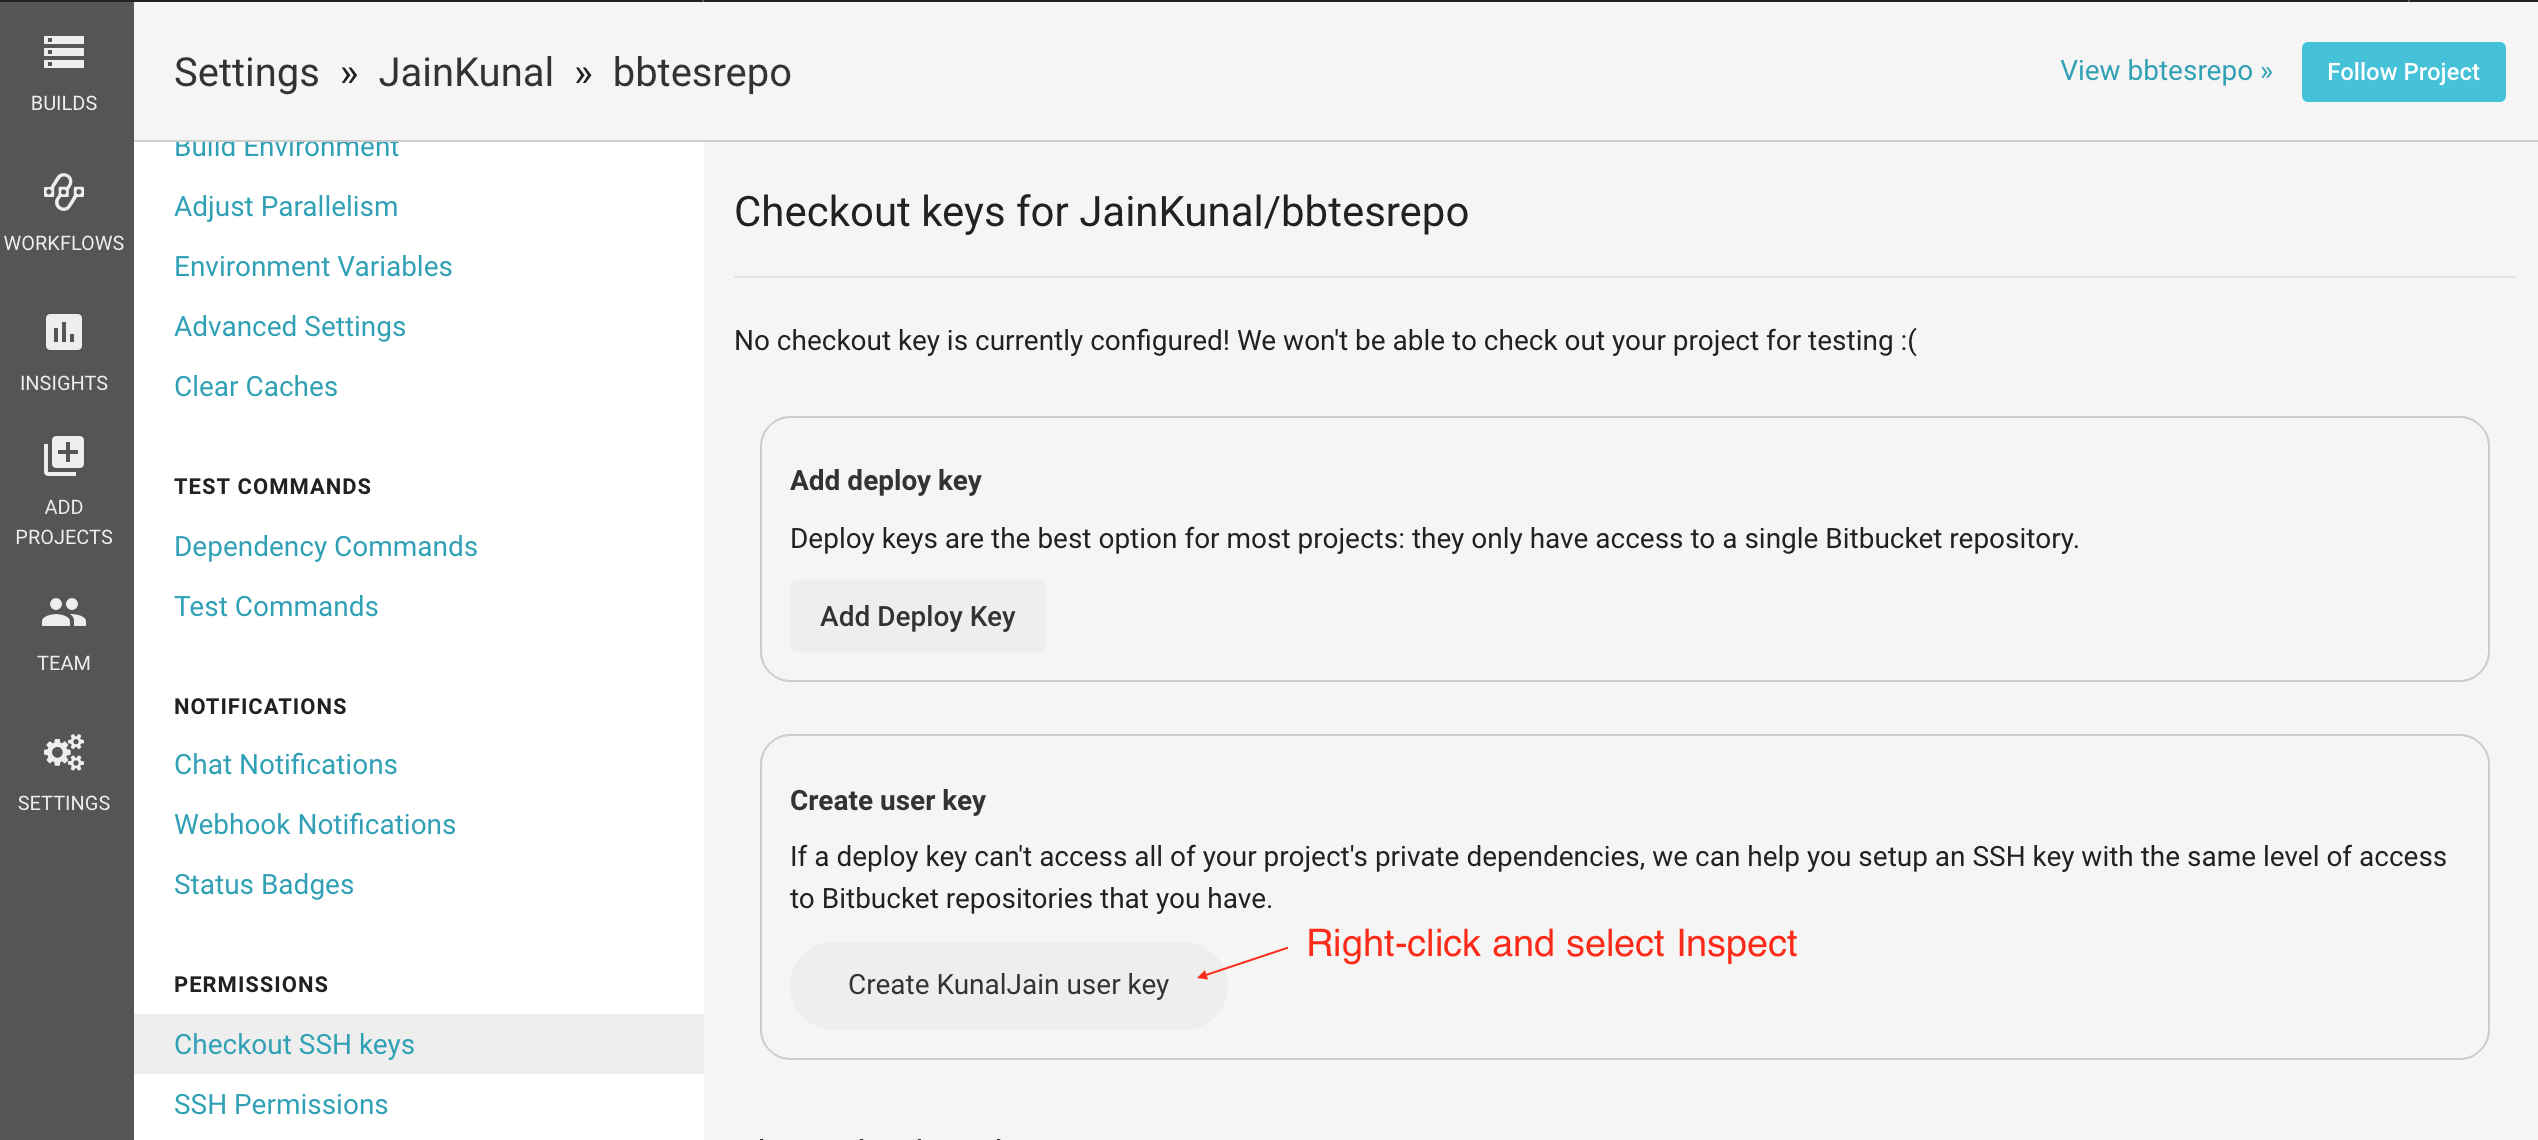
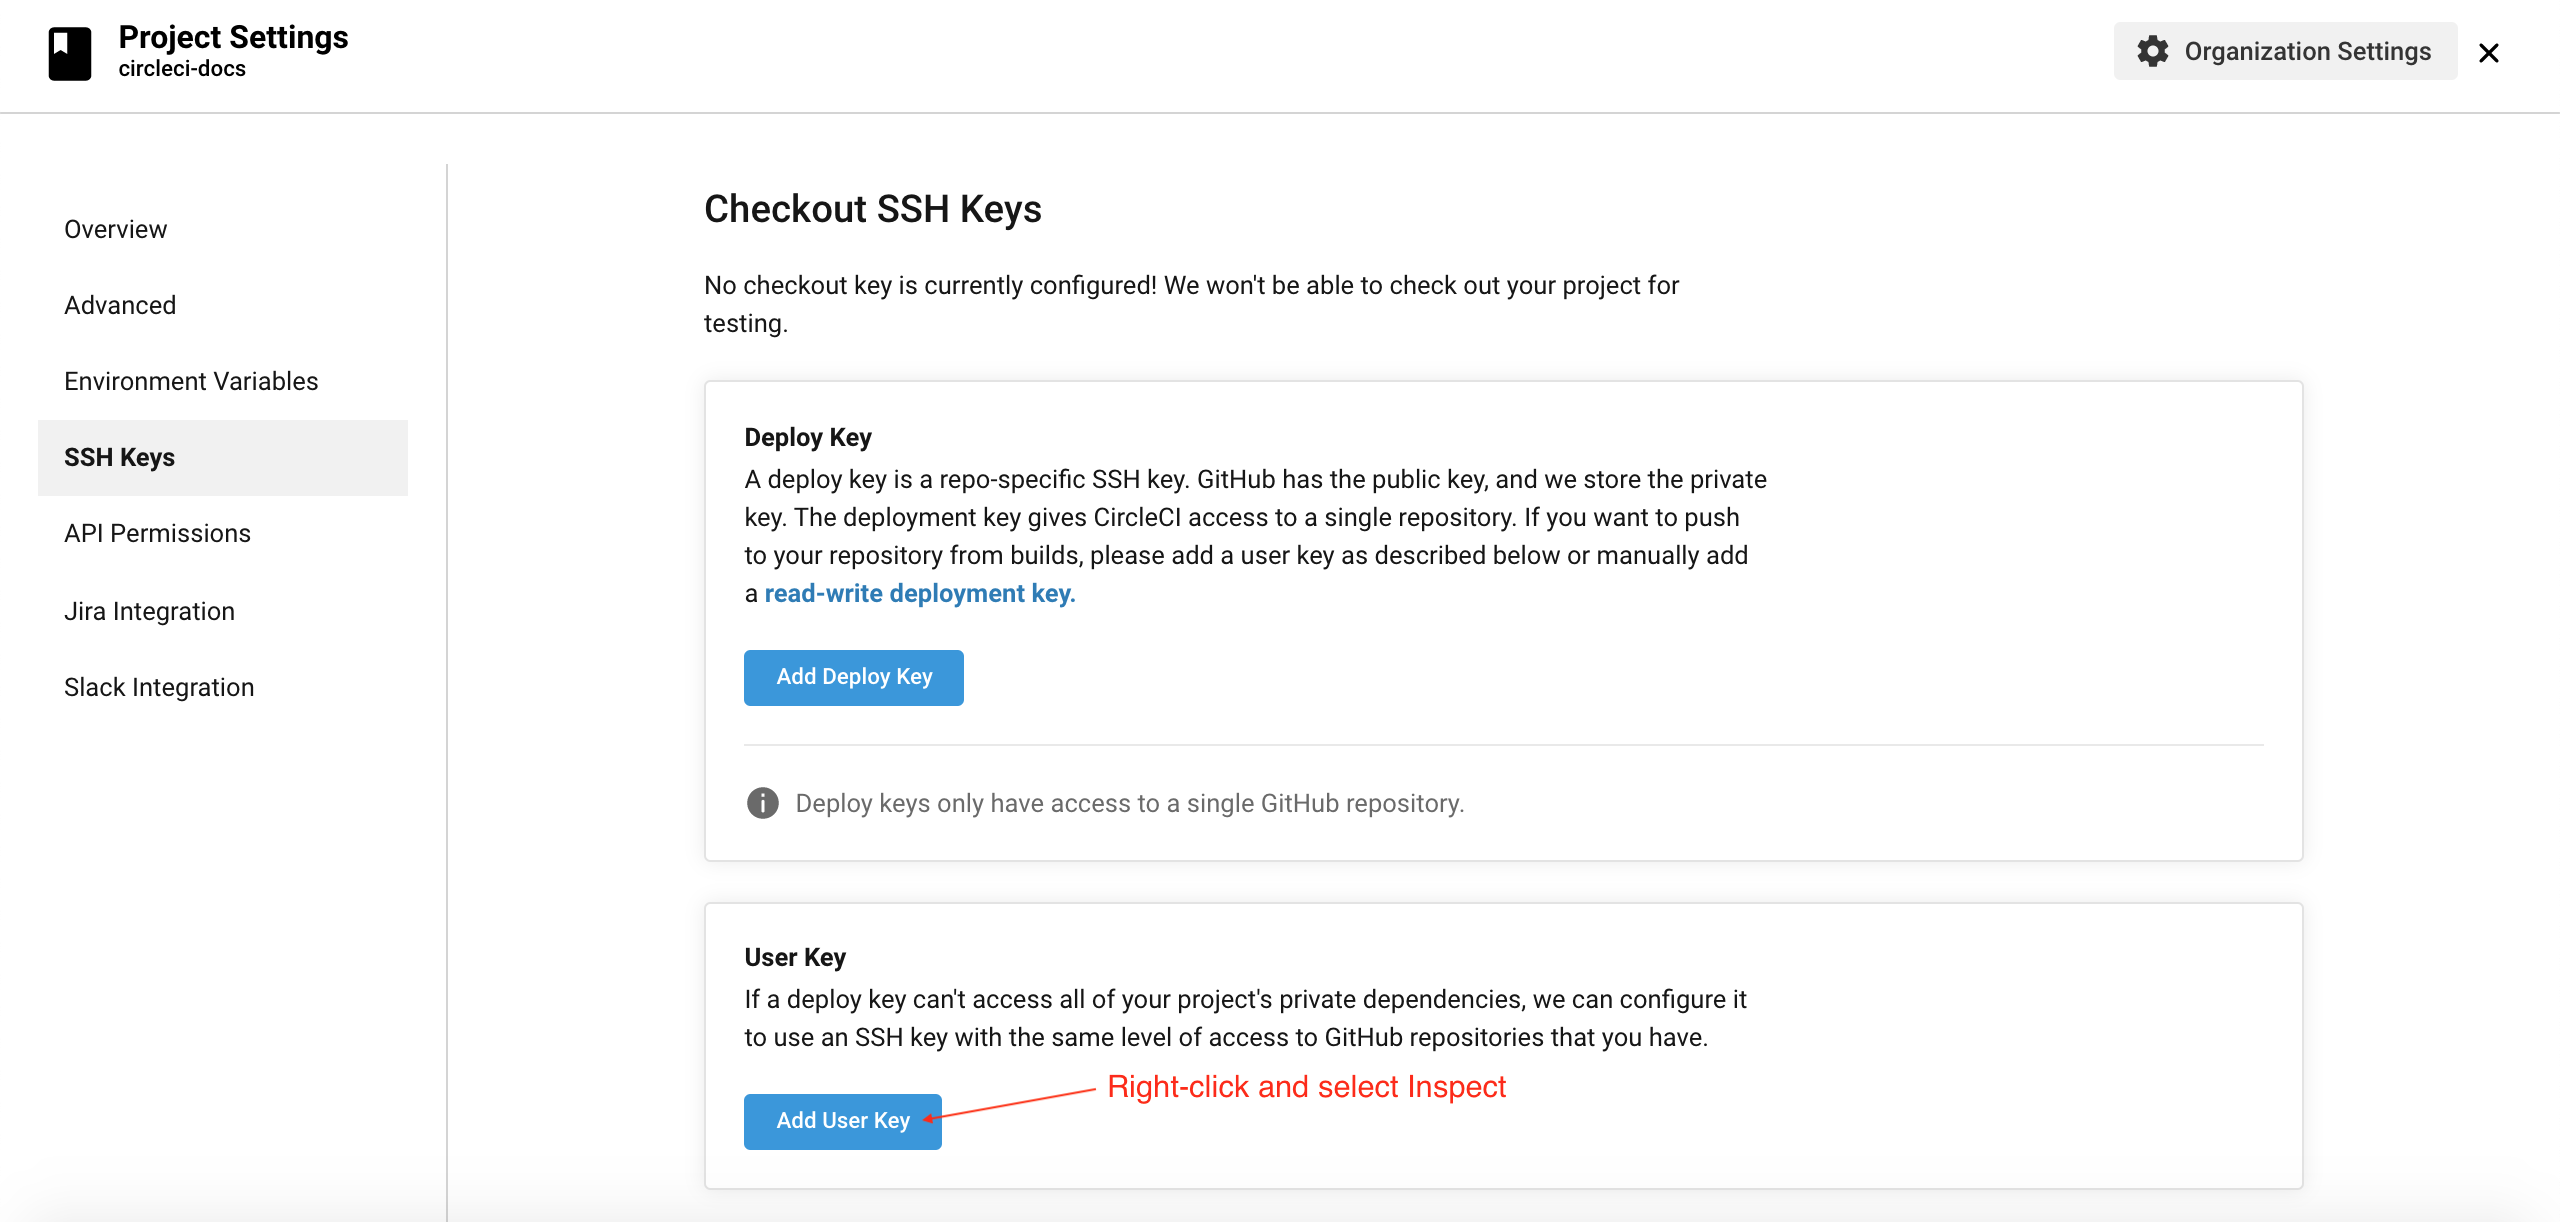
Update instructions to create Bitbucket user key

diff --git a/jekyll/_cci2/gh-bb-integration.md b/jekyll/_cci2/gh-bb-integration.md
@@ -296,20 +296,22 @@ by following this workaround:
 1. In the CircleCI application,
 go to your project's settings.
 
-2. Navigate to the **Checkout SSH Keys** page.
+2. Navigate to the **SSH Keys** page.
 
-3. Right-click the **Create `<username>` user key** button
+3. Right-click the **Add User Key** button
 and select the **Inspect** option to open the browser inspector.![]( {{ site.baseurl }}/assets/img/docs/bb_user_key.png)
 
 4. In the developer console,
 select the **Network** tab.![]( {{ site.baseurl }}/assets/img/docs/bb_user_key2.png)
+
+5. Click the **Add User Key** button to create your user key.
 
 6. In the developer console,
 click the `checkout-key` with a 201 status
 and copy the `public_key` to your clipboard.
 
 7. Add the key to Bitbucket
-by following Bitbucket's guide on [setting up SSH keys](https://confluence.atlassian.com/bitbucket/set-up-an-ssh-key-728138079.html).
+by following Bitbucket's guide on [setting up SSH keys](https://support.atlassian.com/bitbucket-cloud/docs/set-up-an-ssh-key/).
 
 8. In your `.circleci/config.yml`,
 add the fingerprint using the `add_ssh_keys` key:
@@ -352,7 +354,7 @@ To achieve fine-grained access to more than one repo, consider creating what Git
 
 ## Establishing the authenticity of an SSH host
 
-When using SSH keys to checkout repositories, it may be neccesary to add the 
+When using SSH keys to checkout repositories, it may be necessary to add the 
 fingerprints for GitHub or BitBucket to a "known hosts" file 
 (`~/.ssh/known_hosts`) so that the executor can verify that the host it's
 connecting to is authentic. The `checkout`job step does this automatically, so 
